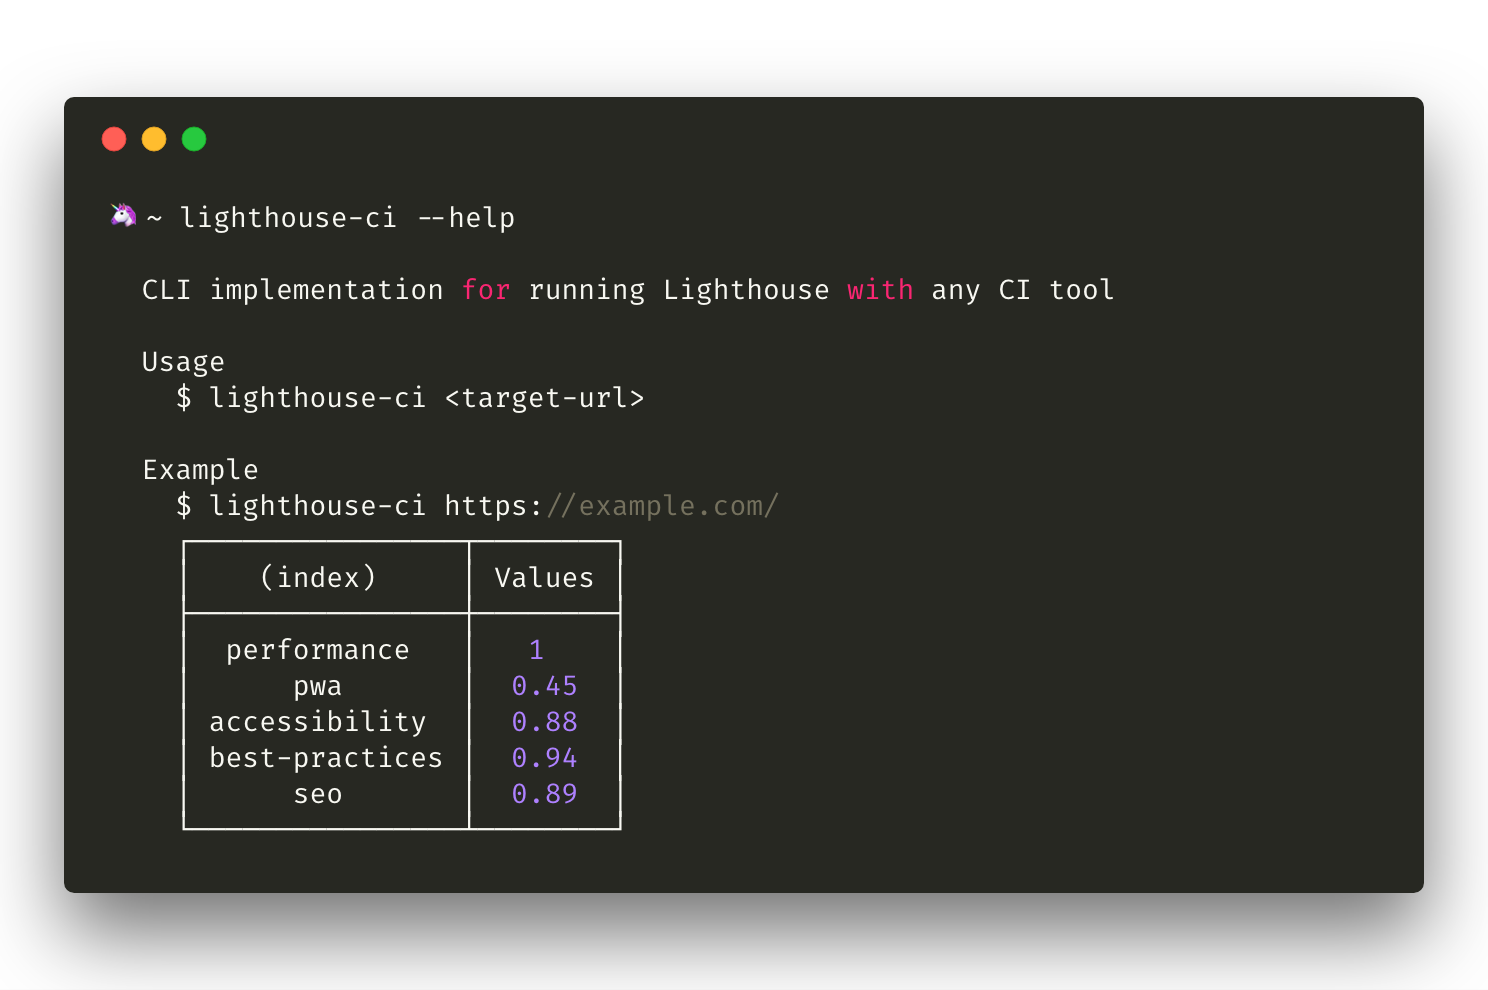
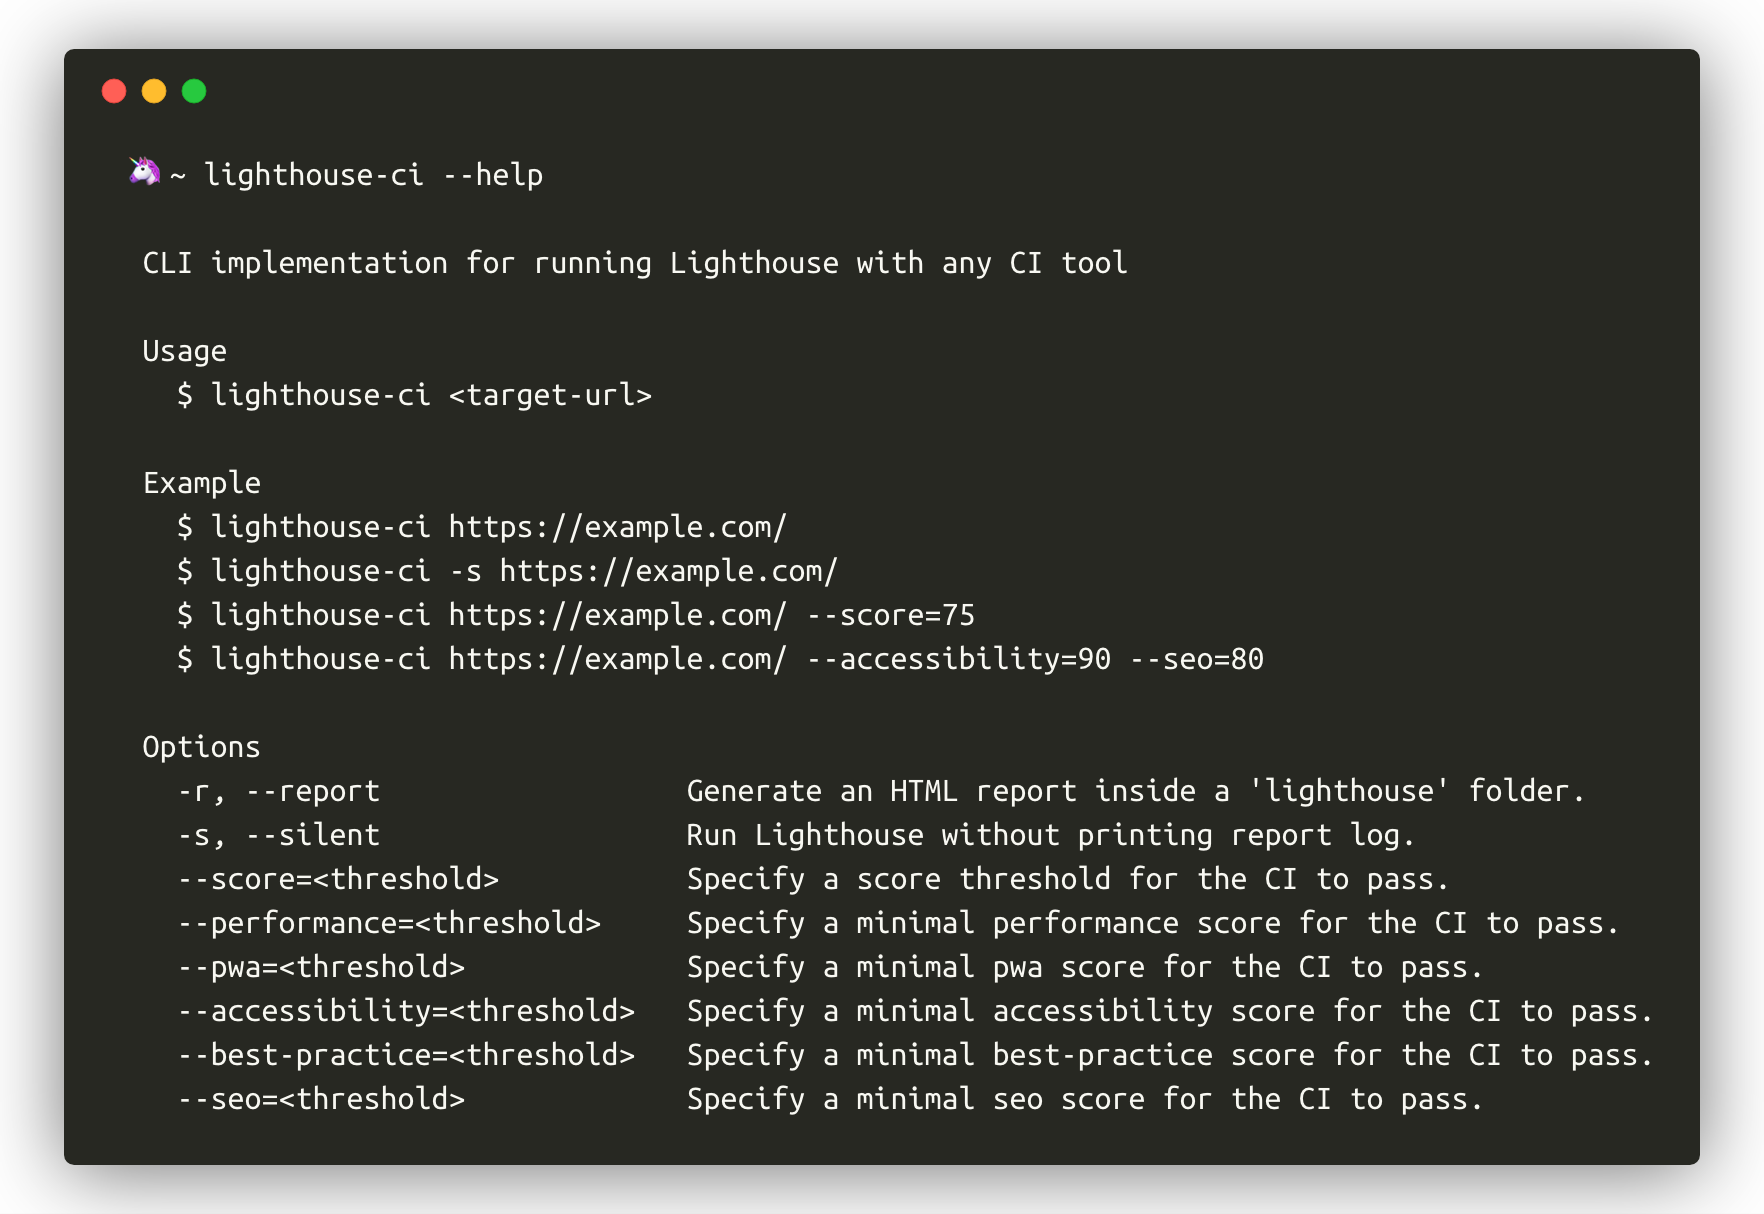
1.0.0

Changed region(s): [[0.0, 0.0, 0.9892, 1.0], [0.8347, 0.7576, 0.8965, 0.7879]]

diff --git a/README.md b/README.md
@@ -2,8 +2,8 @@
 
 > A useful wrapper around Google Lighthouse CLI
 
-[![npm version](https://badge.fury.io/js/angular2-cookie-law.svg)](https://badge.fury.io/js/angular2-cookie-law)
-[![npm](https://img.shields.io/npm/dt/angular2-cookie-law.svg)](https://www.npmjs.com/package/angular2-cookie-law)
+[![npm version](https://badge.fury.io/js/lighthouse-ci.svg)](https://badge.fury.io/js/lighthouse-ci)
+[![npm](https://img.shields.io/npm/dt/lighthouse-ci.svg)](https://www.npmjs.com/package/lighthouse-ci)
 [![Commitizen friendly](https://img.shields.io/badge/commitizen-friendly-brightgreen.svg)](http://commitizen.github.io/cz-cli/)
 [![XO code style](https://img.shields.io/badge/code_style-XO-5ed9c7.svg)](https://github.com/xojs/xo)
 
@@ -17,12 +17,16 @@ $ npm install -g lighthouse-ci
 
 ## Usage
 
+```sh
+lighthouse-ci --help
+```
+
 <img src="screenshot-ui.png" width="800">
-
-## Created by
-
-- [andreasonny83](https://about.me/andreasonny83)
 
 ## License
 
 MIT
+
+---
+
+Created with 🦄 by [andreasonny83](https://about.me/andreasonny83)
